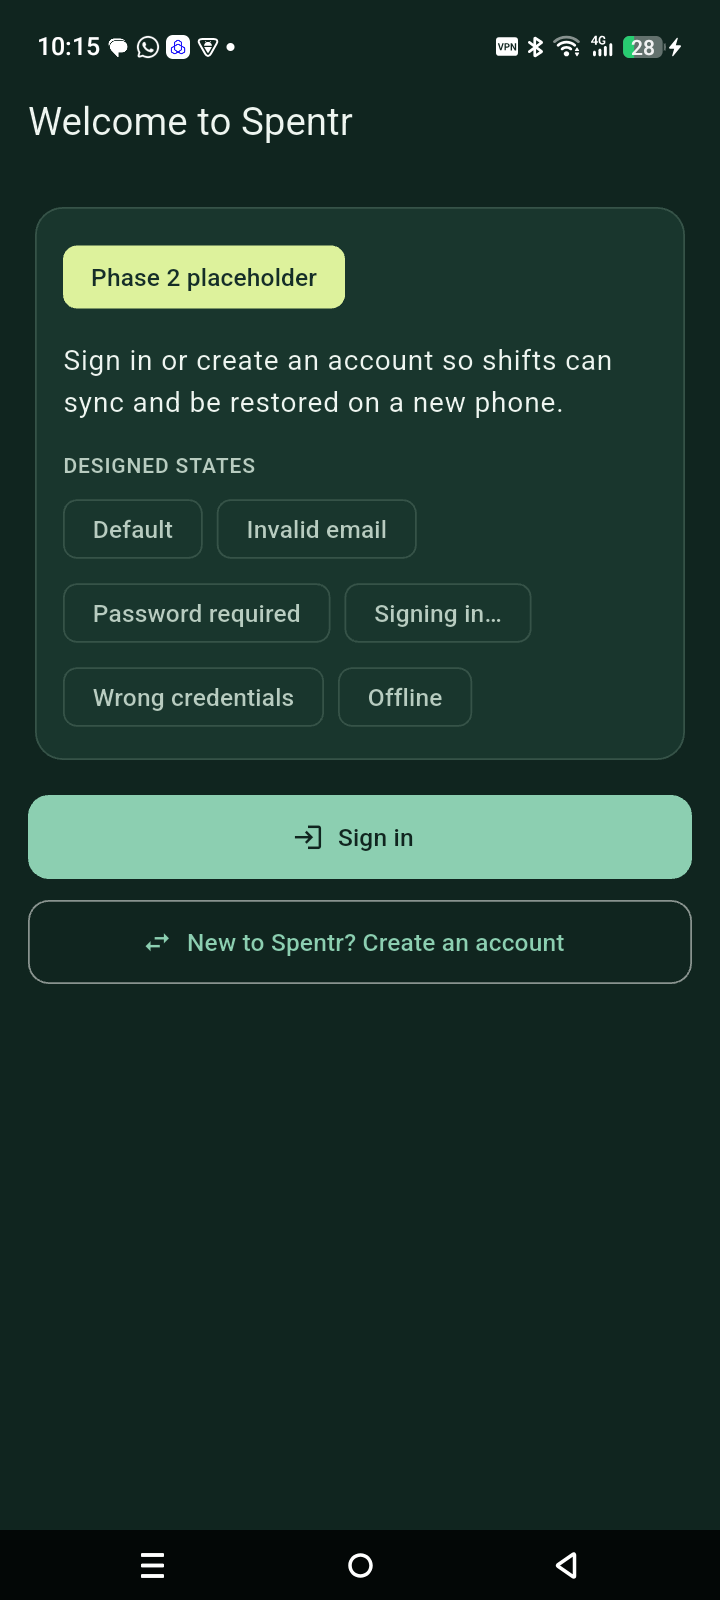
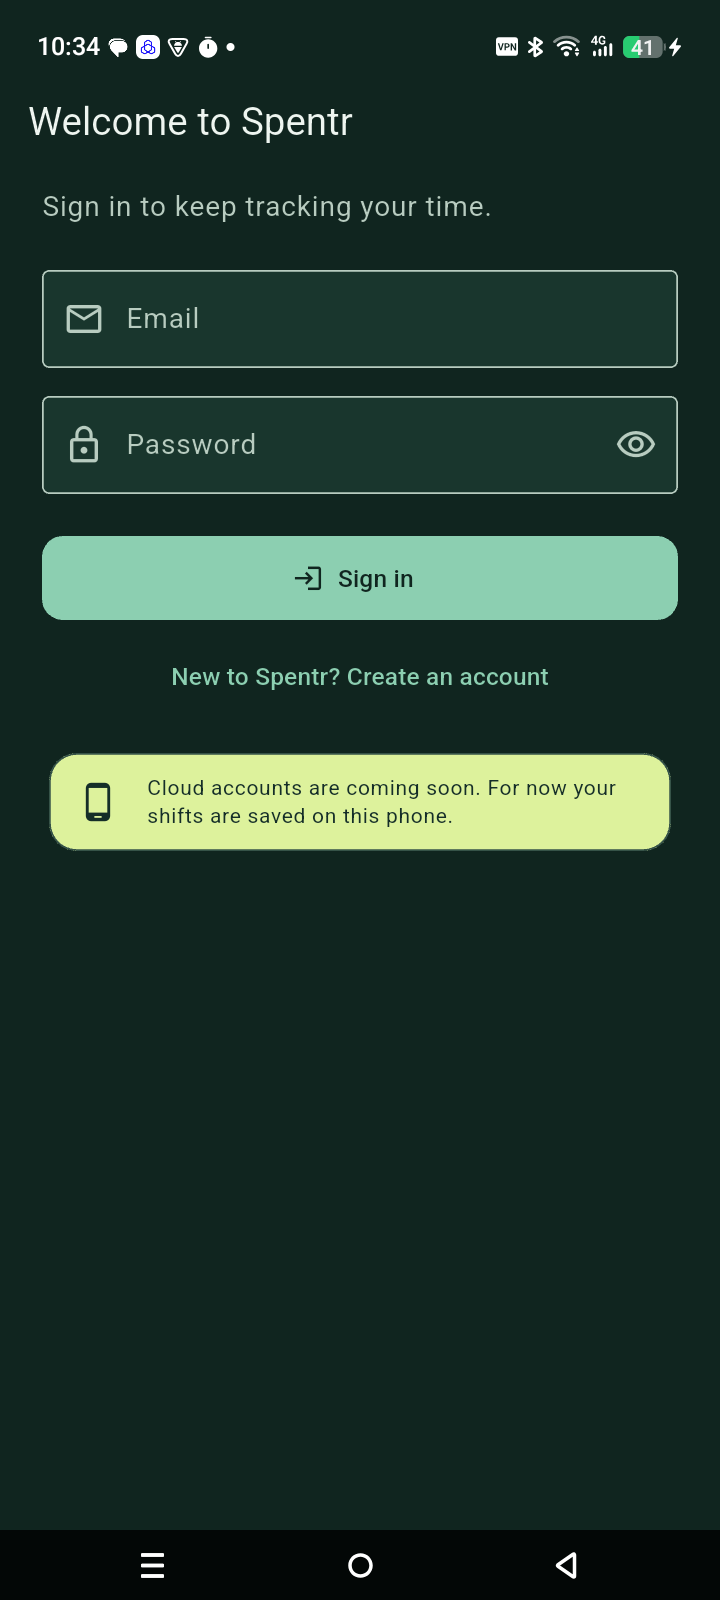
Update README and screenshots for the sign-in form and timer save

Changed region(s): [[0.0306, 0.125, 0.9778, 0.5938], [0.1833, 0.0, 0.3056, 0.0625], [0.1222, 0.0, 0.1528, 0.0312]]

diff --git a/README.md b/README.md
@@ -24,12 +24,12 @@ The app builds and runs on Android. Every major screen from the Phase 2 design i
 
 | # | Essential feature | Phase 3 status |
 |---|---|---|
-| E1 | Shift timer with notification | In progress — timer screen with live earnings, pause and continue; saving on Finish, restart recovery and the notification are Phase 4 |
+| E1 | Shift timer with notification | In progress — start, pause, continue, live earnings, and *Finish* saves the shift; restart recovery and the notification are Phase 4 |
 | E2 | Shift log and manual entry | **Implemented** |
 | E3 | Earnings (hourly rate and currency) | **Implemented** |
 | E4 | Dashboard and month calendar | **Implemented** |
 | E5 | History with search and filter | **Implemented** |
-| E6 | Account and cloud sync | Not started — sign-in is still a placeholder; data stays on the device |
+| E6 | Account and cloud sync | Not started — the Sign in / Sign up form validates input, but there is no server account yet; data stays on the device |
 
 **4 of 6 essential features implemented (67%).** Optional features O1 (Statistics) and O2 (Export, import, app lock) are reachable placeholders.
 
@@ -53,7 +53,7 @@ flutter run
 
 No account, API key or sample data is needed. On first launch:
 
-1. Tap **New to Spentr? Create an account → Create account**. Sign-in is a placeholder, so no details are asked.
+1. Tap **New to Spentr? Create an account**, enter any valid email and a password of at least 8 characters (twice), and tap **Create account**. Accounts are not checked against a server yet.
 2. Enter an hourly rate, for example `75`, choose a currency and tap **Start using Spentr**.
 3. Add shifts from **History → Add manual shift**, or tap a day on the Home calendar and choose **Add a shift for this day**.
 
@@ -61,7 +61,7 @@ Checks before submission:
 
 ```bash
 flutter analyze   # No issues found
-flutter test      # 43 tests pass
+flutter test      # 45 tests pass
 ```
 
 ## Phase 3 Features
@@ -78,6 +78,10 @@ flutter test      # 43 tests pass
 - **Sort** — newest first, oldest first, longest duration, highest earnings.
 - Active filters appear as chips that can be removed one by one; the filter button shows how many are active.
 - **No results** — *No shifts match* with *Clear search & filters*.
+
+**Sign in / Sign up.** Email and password fields with validation (valid email; password required; at least 8 characters and a matching confirmation when creating an account), a show / hide password button, and switching between the two modes. A valid form continues to Rate setup or Home.
+
+**Timer (E1, partly).** *Start shift* opens the timer with live earnings; pause and continue; *Finish shift* saves the worked time (pauses excluded) as a shift and opens its Shift details.
 
 **Runtime states.** A spinner while saved shifts load; empty states on Home and History; an error message with *Retry* when the database cannot be read; *Saving…* and *Shift saved on this device* feedback; validation messages on every form.
 
@@ -127,7 +131,7 @@ app/lib/
   ui/
     screens/                one file per screen or bottom sheet
     widgets/                shift tile, empty state, hourly rate form, confirm dialog, placeholder view
-app/test/                   43 unit and widget tests, with an in-memory repository and settings store
+app/test/                   45 unit and widget tests, with an in-memory repository and settings store
 ```
 
 ## Packages
@@ -145,8 +149,8 @@ Resolved versions are in `app/pubspec.lock`. The minimum versions are set so the
 
 ## Known Issues and Phase 4 Work
 
-- **Timer (E1):** *Finish shift* does not save the shift yet and opens an empty Shift details screen. The running shift is not kept across an app restart, and there is no notification yet.
-- **Account and sync (E6):** sign-in and sign-up are placeholders that continue without checking anything; the API, JWT and sync are not built.
+- **Timer (E1):** the running shift is not kept if the app is closed before *Finish*, and there is no ongoing notification yet.
+- **Account and sync (E6):** the Sign in / Sign up form only validates the email and password locally; the API, JWT and sync are not built.
 - **Optional features:** Statistics (O1), Export / Import and App lock (O2) are placeholder screens.
 - A shift that crosses midnight is counted on the day it started, on the calendar and in the totals.
 - Search looks in notes only; client / project tags are found with the tag filter.
@@ -177,7 +181,7 @@ The prototype uses illustrative data and prepared screen transitions. Authentica
 
 As required by the course policy, we disclose the following assistance:
 
-- **Anthropic Claude** helped draft and format the Phase 1 proposal, provided small code and debugging suggestions, generated the Phase 2 Flutter starter project (placeholder screens, routes, theme and model classes), and drafted the Phase 2 technical design sections (widget plan, data model and state management plan). In Phase 3 (Claude Code) it assisted Moath's part: the History search, filter and sort logic and screens, the dashboard and Day details sheet, their tests, the dependency and Android build fixes, this README, and checking the app on an Android phone.
+- **Anthropic Claude** helped draft and format the Phase 1 proposal, provided small code and debugging suggestions, generated the Phase 2 Flutter starter project (placeholder screens, routes, theme and model classes), and drafted the Phase 2 technical design sections (widget plan, data model and state management plan). In Phase 3 (Claude Code) it assisted Moath's part: the History search, filter and sort logic and screens, the dashboard and Day details sheet, the Sign in form and saving a shift on timer Finish, their tests, the dependency and Android build fixes, this README, and checking the app on an Android phone.
 - **ChatGPT** helped extract the Phase 1 design context, generate initial interface designs, create the HTML prototype and Figma import script, and draft README updates.
 - **Cursor Grok** assisted the Phase 3 app foundation, hourly-rate persistence, earnings calculation, and timer earnings display.
 
